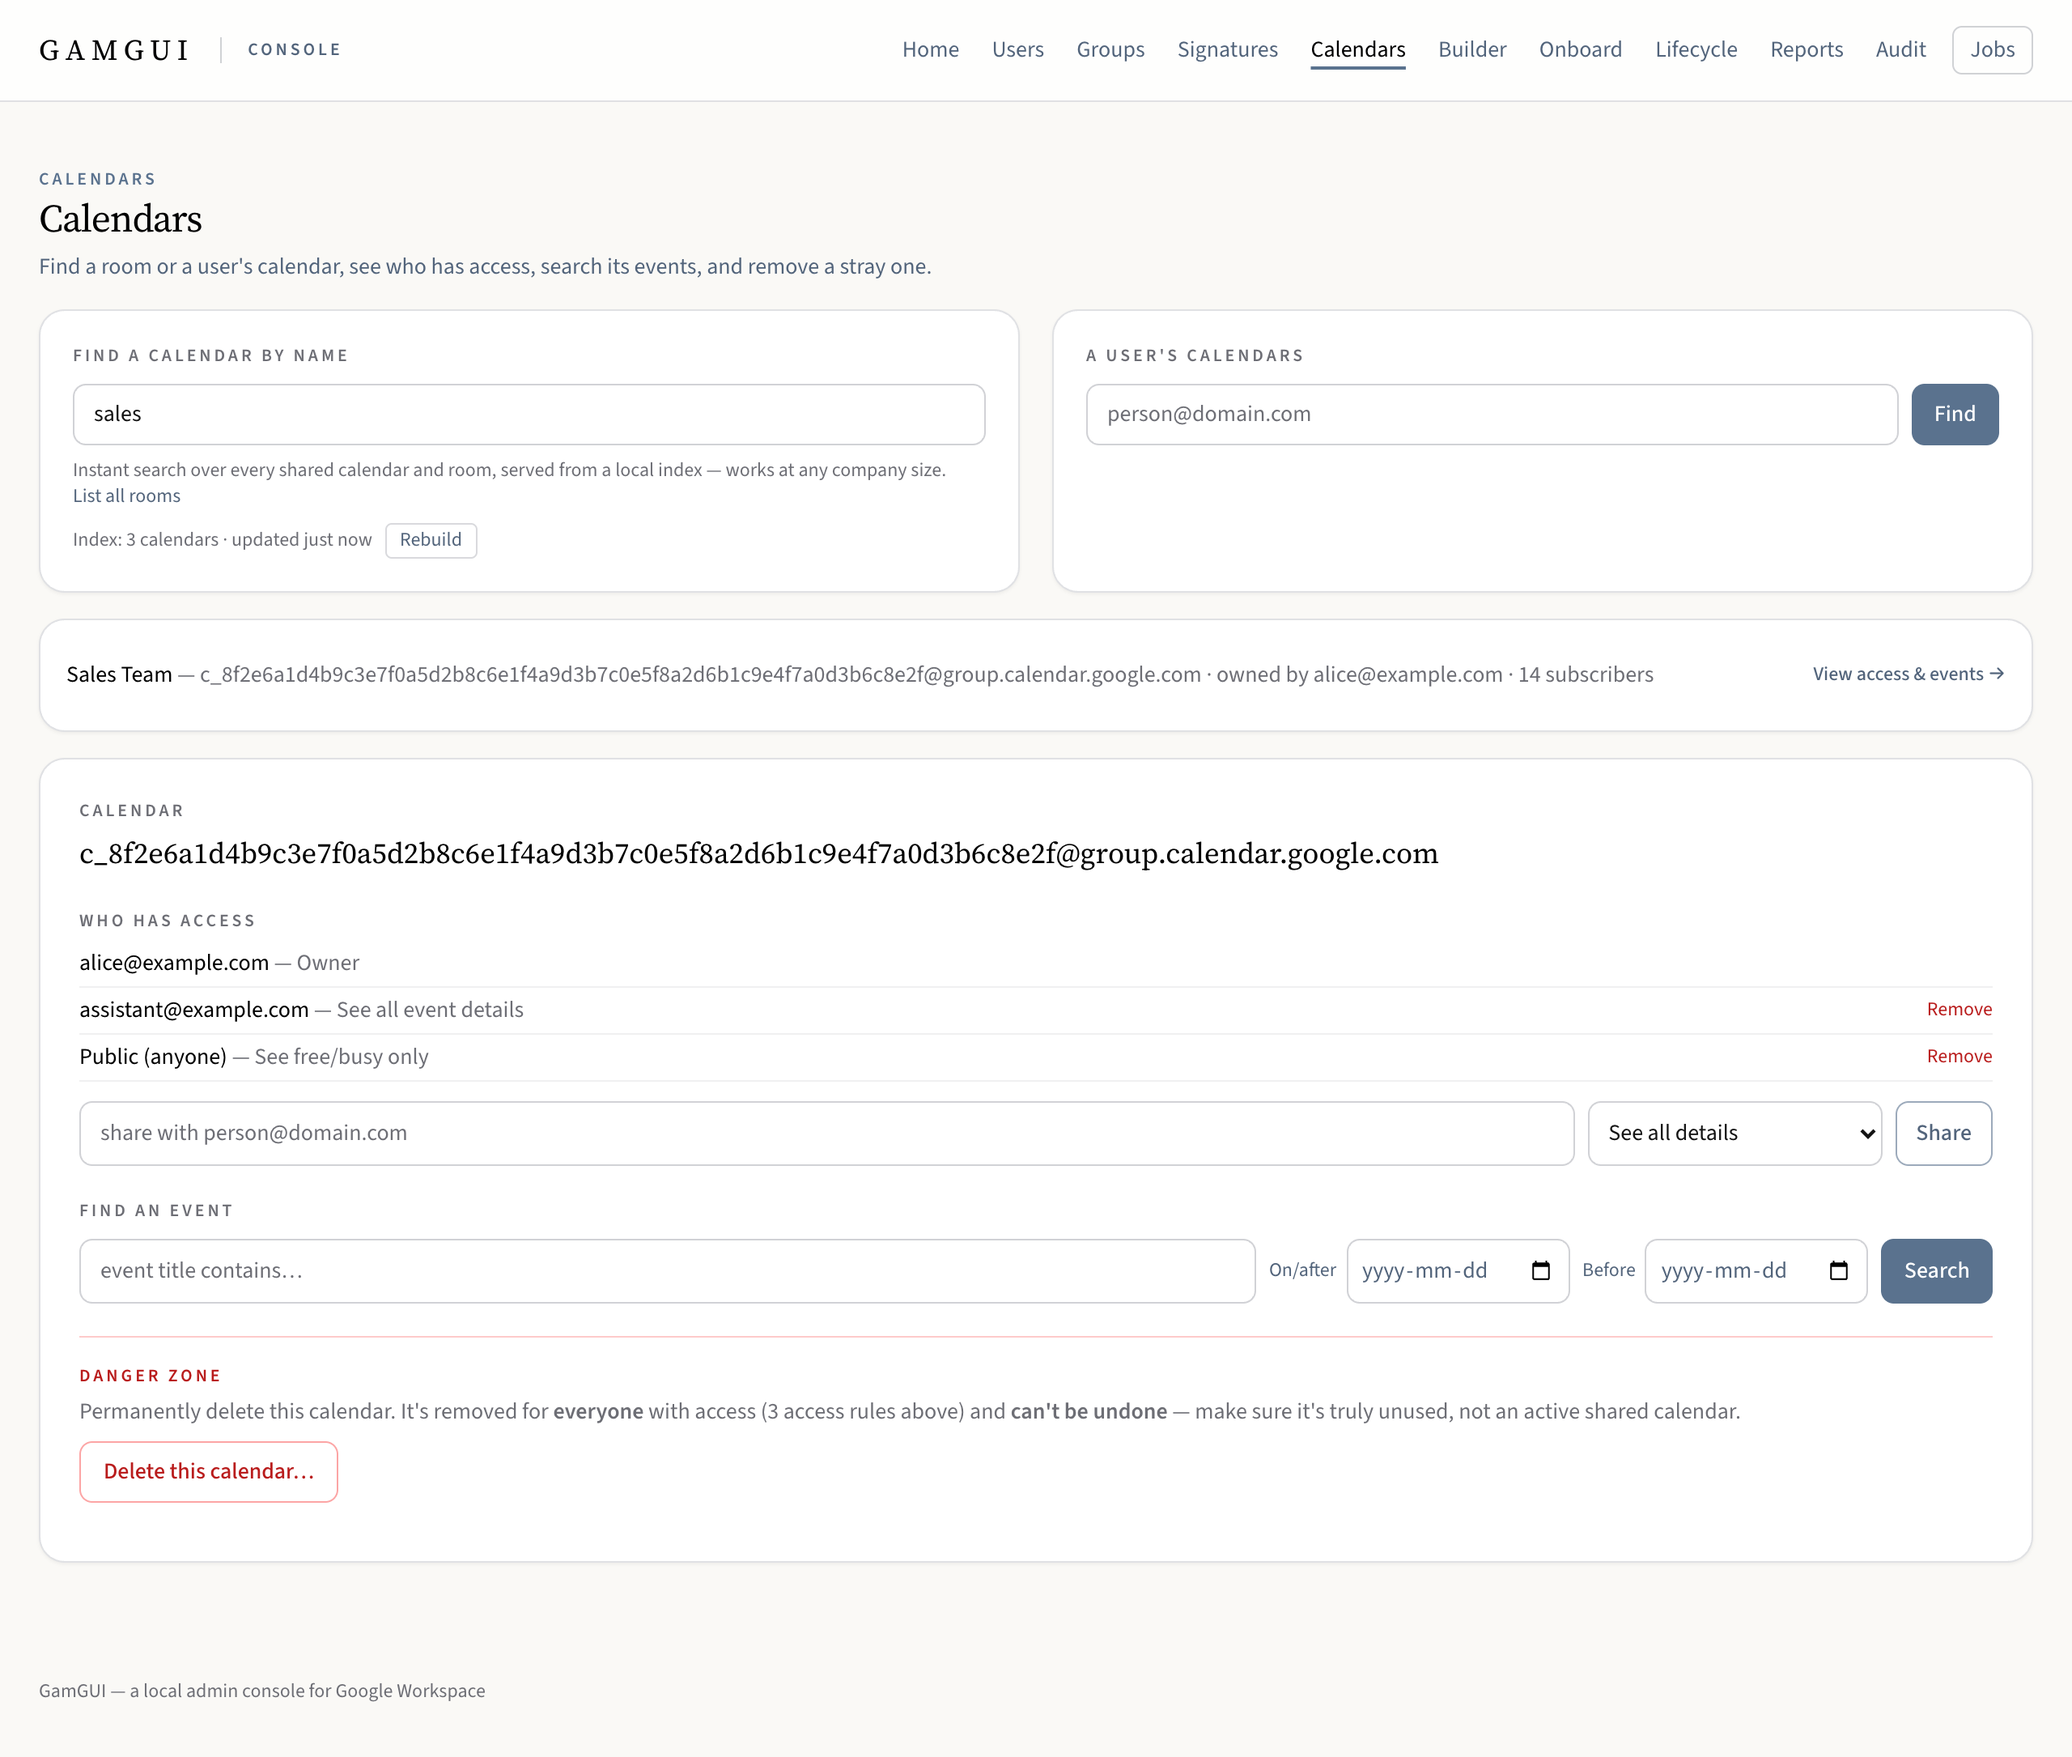
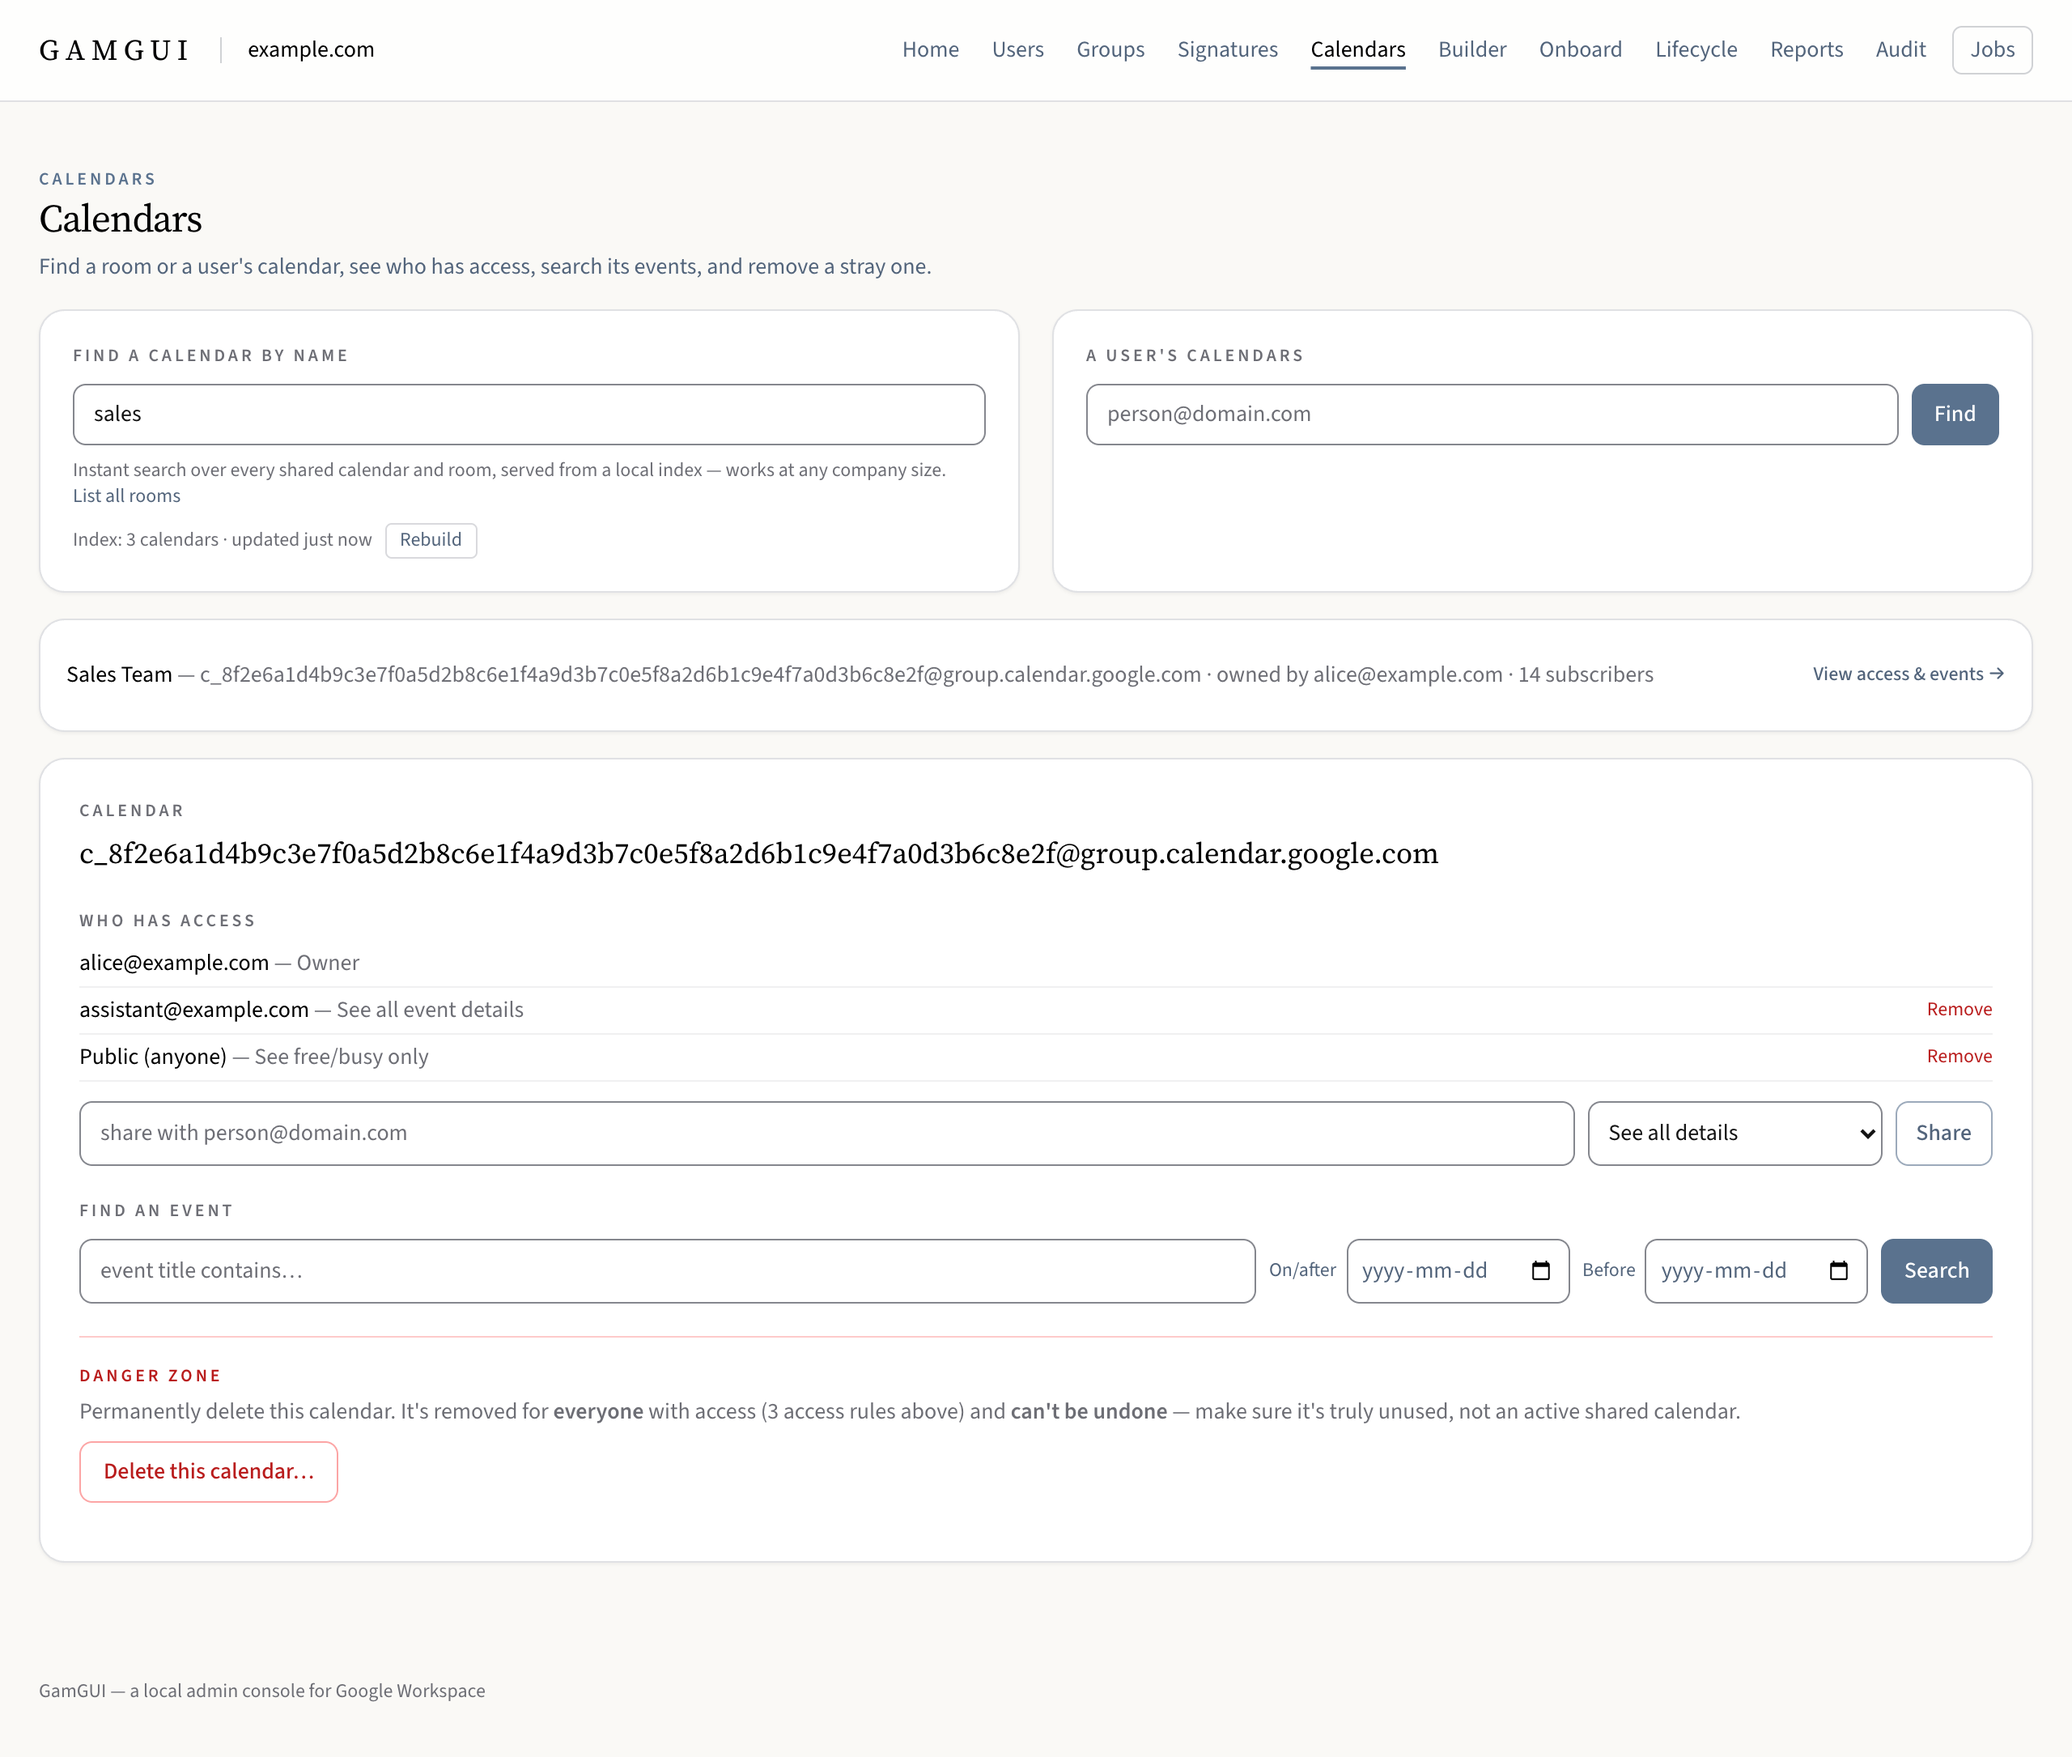
docs(readme): the first screen says who it's for, the everyday tasks, how to build it (no notarized download yet) and a first five minutes that ends at the guide
make setup's interpreter choice is stated as the Makefile does it (the newest 3.10+ on PATH, or
PYTHON=), the screenshots are regenerated from the mock with the tenant header, and ROADMAP's
report-bucket item notes that Stop and retry-the-failures now exist.

Changed region(s): [[0.125, 0.0, 0.1562, 0.0309]]

diff --git a/README.md b/README.md
@@ -1,23 +1,51 @@
 # GamGUI
 
-A free, local, open-source **macOS GUI for [GAM7](https://github.com/GAM-team/GAM)** — administer
-Google Workspace (users, groups, signatures, delegates, vacation responders, reports, and more)
-without memorizing CLI commands, with your credentials kept in the macOS **Keychain**.
+A free, local, open-source **macOS app for [GAM7](https://github.com/GAM-team/GAM)**, the Google
+Workspace admin command line. The recurring admin chores get a screen, the big changes show a
+preview and wait for your confirm, and every change lands in an audit log — with GAM's full reach
+still underneath and your credentials in the macOS **Keychain**. Nothing runs in the cloud.
 
-> GAM exposes far more of Google Workspace than the Admin Console surfaces (Gmail
-> signatures/delegates/forwarding, advanced group settings, bulk operations, reporting). GamGUI
-> puts a safe, native front end on top of it.
+**Who it's for:** the Google Workspace admin on a Mac — often the one person who runs Workspace for
+the company — who knows GAM can do it but would rather not type it, or rebuild it from memory, every
+time.
 
-**Who it's for:** a Google Workspace admin on a Mac who wants the recurring chores — onboarding,
-offboarding, signatures, delegation, calendar sharing — behind a preview and an audit log instead of
-a terminal, with GAM's full reach still underneath.
+**What it does** — the everyday tasks, one screen each:
 
-**First five minutes:** there is no packaged download yet, so [build from source](#build-from-source)
-(`make setup && make gam && make run`). **Setup** imports an existing GAM install into the Keychain
-or walks you through a new one; then **Users** and **Reports** only read — nothing in your domain
-changes until you start a write yourself. Before relying on a write, check
-[Live verification status](#live-verification-status). The [user guide](docs/guide.md) walks an
-admin through setup and each everyday task, with what to check before and after.
+- **Onboard** a hire: the account, OU, signature, groups, shared calendars, a setup checklist and a
+  welcome email — one person, or a CSV of them.
+- **Offboard** a leaver: reset the password, revoke access and sign out, turn off forwarding, hand the
+  mailbox to a delegate, set an auto-reply, transfer Drive and calendars, remind the manager.
+- **Roll out a signature** to one person, a group, an OU, a department or everyone, with a live
+  preview.
+- **Find anyone** in the directory; edit title and department (one person or in bulk), delegates,
+  auto-replies and groups; sign out or suspend.
+- **Share a calendar** so it actually appears, and see who has access to any shared calendar.
+- **Audit**: 2SV gaps, inactive accounts, admins and storage in Reports; in the Builder, any of GAM's
+  read commands, filtered down to the rows that reach outside your domains.
+
+**How to get it:** there is **no notarized download yet** — you build it from source on your own Mac.
+It takes a few minutes and Python 3.10+ (macOS ships 3.9: `brew install python@3.13` first); no
+Google credentials are needed to build:
+
+```bash
+git clone https://github.com/goetchstone/gamgui.git && cd gamgui
+make setup && make gam && make run      # `make app` builds a standalone GamGUI.app
+```
+
+Details in [Build from source](#build-from-source).
+
+**Your first five minutes:**
+
+1. **Setup** imports an existing GAM install into the Keychain (or walks you through a new one), then
+   shows the one step Google makes you do by hand — domain-wide delegation, with a pre-filled
+   Admin-console link — and a **Verify**.
+2. Look around **Home**, **Users** and **Reports**. Reading never changes anything, and nothing in
+   your domain changes until you start a change yourself; the big ones — onboarding, offboarding,
+   bulk runs, deletes — show a preview first and wait for your confirm.
+3. Before you rely on a write, check [Live verification status](#live-verification-status) — some
+   writes have run against a real domain, others only offline.
+4. Read the **[user guide](docs/guide.md)**: setup and each everyday task, with what to check before
+   and after.
 
 ![Users — fast directory search, with title and status](docs/screenshots/users.png)
 
@@ -88,8 +116,6 @@ Actively developed and used against live Google Workspace tenants. Working today
   the steps after it "not run: stopped"). A signature apply or bulk department run that failed for
   some people offers **Retry the N that failed**: the same preview and confirm step, for just them
   (not past the 200 failures a job keeps). Jobs live in memory: quitting the app ends them.
-
-You build and run it yourself; it is not yet notarized for distribution to other Macs.
 
 > **Destructive actions are guarded — but check what has actually been proven live.** Suspend,
 > account delete, calendar/event delete, a Builder data transfer, the offboarding routine, and the
@@ -238,13 +264,10 @@ make css       # rebuild the UI's Tailwind CSS after a template adds a class (pi
 make run       # launch the app (native window; without pywebview, a browser URL — dev only)
 ```
 
-`make setup` builds the venv with whatever `python3` is first on your PATH — macOS's bundled
-`python3` is 3.9 and `pip install -e .` will refuse it ("requires a different Python"). If
-`python3 -V` is below 3.10, skip `make setup` and create the venv explicitly:
-
-```bash
-python3.14 -m venv .venv && .venv/bin/pip install -e ".[dev,desktop]"
-```
+`make setup` builds the venv with the newest Python 3.10+ on your PATH (`python3.14` down to
+`python3.10`, then `python3`). macOS's bundled `python3` is 3.9, which cannot install GamGUI; with
+nothing newer, `make setup` stops and says how to get one (`brew install python@3.13` or the
+python.org installer). Point it at a specific interpreter with `make setup PYTHON=python3.13`.
 
 `make help` lists all targets. Prefer raw commands? `pip install -e ".[dev,desktop]"`, then
 `scripts/fetch_gam.sh`, `pytest`, `python -m gamgui.app`. That installs `pyproject.toml`'s flexible

diff --git a/docs/plans/2026-09-23-ten-out-of-ten.md b/docs/plans/2026-09-23-ten-out-of-ten.md
@@ -214,7 +214,10 @@ plan's Phase 0 F1–F3.
 - **Phase 7** — applied: V2 `c4f9515` (README/ROADMAP counts now drift-tested and rewritten by
   `scripts/bump_gam.py`) · V6a `docs/guide.md` (a task guide for the admin: setup, find, onboard,
   offboard, signature, calendar share, external-sharing audit, jobs, audit log; `tests/test_guide.py`
-  pins its scope table to Setup's and checks its links). **Open:** V1, the rest of V6; V3–V5 are new
+  pins its scope table to Setup's and checks its links) · V6b the README's first screen (who it's
+  for, the everyday tasks, build from source — no notarized download yet — and a first five minutes
+  that ends at the guide; `make setup`'s interpreter choice stated as it is; screenshots regenerated
+  with the tenant header). **Open:** V1; V3–V5 are new
   scope, and D6 says none for now.
 - **Phase 8** — **open** (D8). The operator's first real offboarding is its first live test: README
   "Live verification status" marks every step still unproven, and

diff --git a/ROADMAP.md b/ROADMAP.md
@@ -12,8 +12,8 @@ around that is not on this list. See [CONTRIBUTING.md](CONTRIBUTING.md).
 
 - **Make the report buckets actionable.** `/reports` already computes the worklists that matter
   (inactive 90+ days, no 2SV, suspended, missing recovery). Every one is currently a dead end you
-  can only click through one user at a time. The bulk executor and the guard already handle exactly
-  this shape of operation.
+  can only click through one user at a time (Home counts them, too). The bulk executor, the guard,
+  a job's Stop and "Retry the N that failed" already handle exactly this shape of operation.
 - **Offboarding: skip a step that doesn't apply.** Half there: each step has an "already done" box,
   so a re-run skips the steps that succeeded, and preview and run stay in sync off the step `key`s.
   Left: a "doesn't apply" choice (transferring 40 GB of Drive nobody wants) that the preview shows
